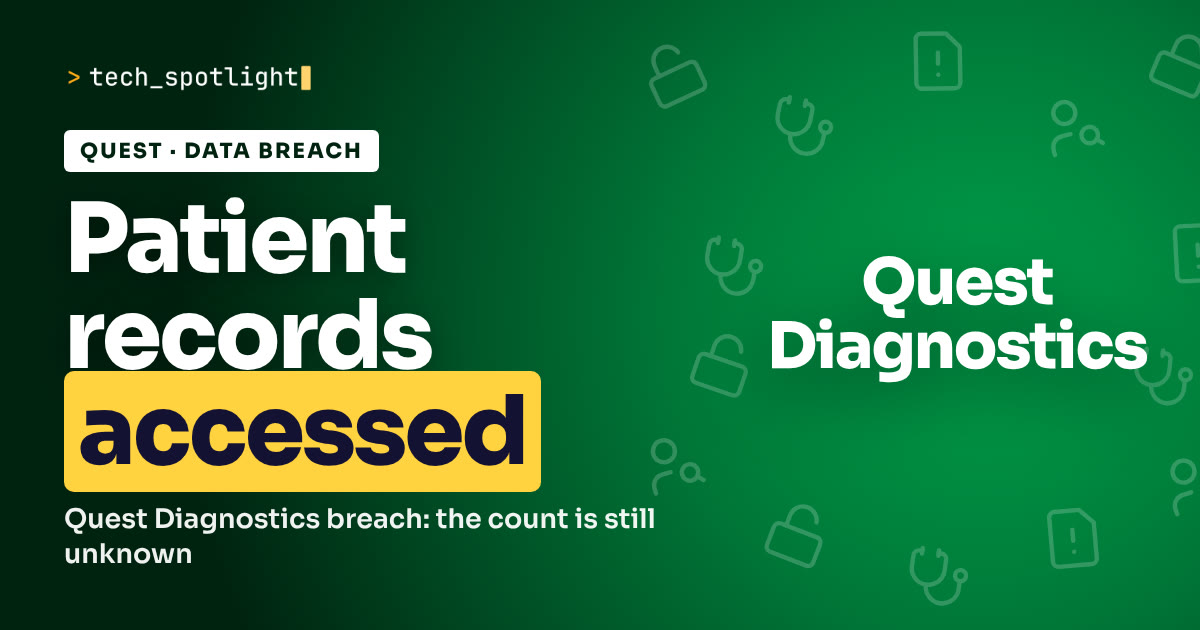
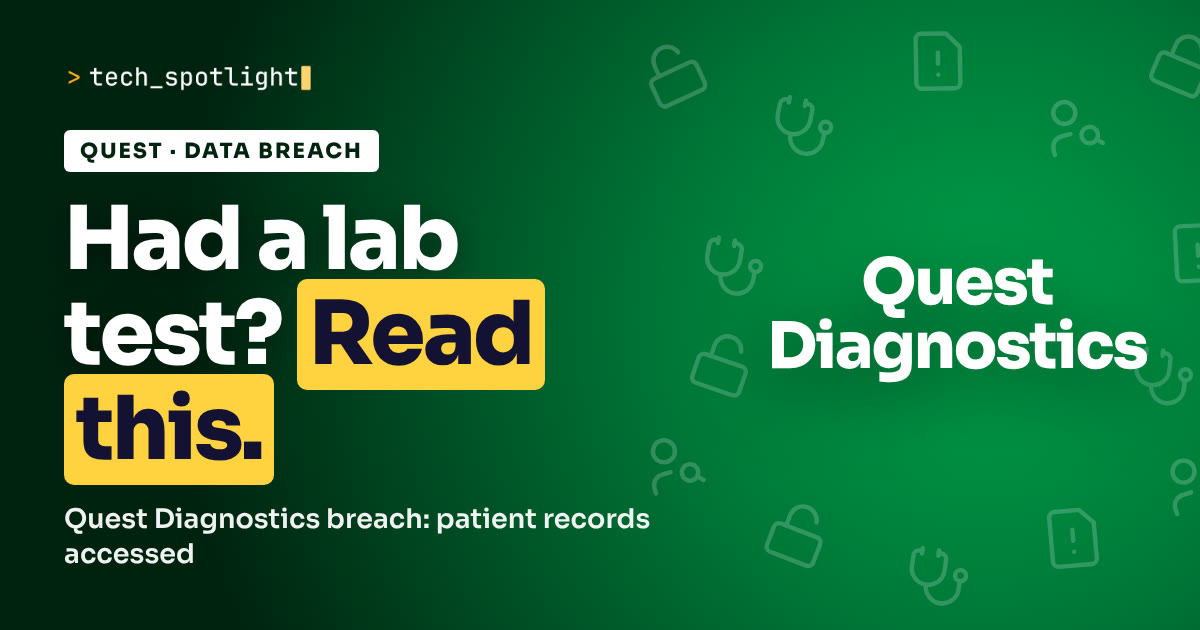
Covers: stronger hook lines on poster covers
Claude-Session: https://claude.ai/code/session_01NsXGU5aghkSMkgTdhcr5Zx

Changed region(s): [[0.0308, 0.3016, 0.4625, 0.7841], [0.3392, 0.7841, 0.555, 0.8444], [0.0617, 0.8444, 0.1542, 0.9048]]

diff --git a/src/content/news/moderna-merck-melanoma-mrna-vaccine-phase-3.md b/src/content/news/moderna-merck-melanoma-mrna-vaccine-phase-3.md
@@ -13,7 +13,7 @@ date: 2026-10-24
 category: science
 draft: false
 image: "/images/posts/moderna-merck-melanoma-mrna-vaccine-phase-3/cover.jpg"
-imageAlt: "TechSpotlight poster in Moderna & Merck colours with the Moderna & Merck logos and the words 'Cancer return risk cut 42%'"
+imageAlt: "TechSpotlight poster in Moderna & Merck colours with the Moderna & Merck logos and the words 'A vaccine against melanoma's return'"
 imageCredit:
   name: "TechSpotlight News"
   source: "Cover card"

diff --git a/src/content/news/quest-diagnostics-data-breach-2026.md b/src/content/news/quest-diagnostics-data-breach-2026.md
@@ -13,7 +13,7 @@ date: 2026-10-24
 category: business
 draft: false
 image: "/images/posts/quest-diagnostics-data-breach-2026/cover.jpg"
-imageAlt: "TechSpotlight poster in Quest Diagnostics colours with the name Quest Diagnostics and the words 'Patient records accessed'"
+imageAlt: "TechSpotlight poster in Quest Diagnostics colours with the name Quest Diagnostics and the words 'Had a lab test? Read this.'"
 imageCredit:
   name: "TechSpotlight News"
   source: "Cover card"

diff --git a/src/content/news/brain-enzyme-age-related-memory-loss.md b/src/content/news/brain-enzyme-age-related-memory-loss.md
@@ -13,7 +13,7 @@ date: 2026-10-17
 category: science
 draft: false
 image: "/images/posts/brain-enzyme-age-related-memory-loss/cover.jpg"
-imageAlt: "TechSpotlight poster in Brain research colours with a brain research symbol and the words 'An enzyme that guards memory?'"
+imageAlt: "TechSpotlight poster in Brain research colours with a brain research symbol and the words 'Can memory stay young?'"
 imageCredit:
   name: "TechSpotlight News"
   source: "Cover card"

diff --git a/src/content/news/ice-cliffs-collapse-sea-level-study.md b/src/content/news/ice-cliffs-collapse-sea-level-study.md
@@ -13,7 +13,7 @@ date: 2026-10-17
 category: science
 draft: false
 image: "/images/posts/ice-cliffs-collapse-sea-level-study/cover.jpg"
-imageAlt: "TechSpotlight poster in Climate science colours with a climate science symbol and the words 'Ice cliffs fall faster'"
+imageAlt: "TechSpotlight poster in Climate science colours with a climate science symbol and the words 'Faster, then suddenly stop'"
 imageCredit:
   name: "TechSpotlight News"
   source: "Cover card"

diff --git a/src/content/news/japan-data-breaches-yamato-nikkei.md b/src/content/news/japan-data-breaches-yamato-nikkei.md
@@ -13,7 +13,7 @@ date: 2026-10-17
 category: business
 draft: false
 image: "/images/posts/japan-data-breaches-yamato-nikkei/cover.jpg"
-imageAlt: "TechSpotlight poster in Yamato & Nikkei colours with the name Yamato & Nikkei and the words 'Japan's breach wave grows'"
+imageAlt: "TechSpotlight poster in Yamato & Nikkei colours with the name Yamato & Nikkei and the words 'Who has your data?'"
 imageCredit:
   name: "TechSpotlight News"
   source: "Cover card"

diff --git a/src/content/news/php2shell-nodejs-security-patches.md b/src/content/news/php2shell-nodejs-security-patches.md
@@ -13,7 +13,7 @@ date: 2026-10-22
 category: apps-software
 draft: false
 image: "/images/posts/php2shell-nodejs-security-patches/cover.jpg"
-imageAlt: "TechSpotlight poster in PHP & Node.js colours with the PHP & Node.js logos and the words 'Two critical PHP flaws'"
+imageAlt: "TechSpotlight poster in PHP & Node.js colours with the PHP & Node.js logos and the words 'Run PHP? Patch today.'"
 imageCredit:
   name: "TechSpotlight News"
   source: "Cover card"

diff --git a/src/content/news/western-digital-q1-fy27-earnings.md b/src/content/news/western-digital-q1-fy27-earnings.md
@@ -13,7 +13,7 @@ date: 2026-10-23
 category: business
 draft: false
 image: "/images/posts/western-digital-q1-fy27-earnings/cover.jpg"
-imageAlt: "TechSpotlight poster in Western Digital colours with the Western Digital logo and the words 'Sales up 55%'"
+imageAlt: "TechSpotlight poster in Western Digital colours with the Western Digital logo and the words 'AI's hunger for storage'"
 imageCredit:
   name: "TechSpotlight News"
   source: "Cover card"

diff --git a/src/content/news/spotify-family-plan-qr-verification.md b/src/content/news/spotify-family-plan-qr-verification.md
@@ -13,7 +13,7 @@ date: 2026-10-24
 category: apps-software
 draft: false
 image: "/images/posts/spotify-family-plan-qr-verification/cover.jpg"
-imageAlt: "TechSpotlight poster in Spotify colours with the Spotify logo and the words 'Family plan? Scan at home.'"
+imageAlt: "TechSpotlight poster in Spotify colours with the Spotify logo and the words 'Sharing Family? 7 days to scan'"
 imageCredit:
   name: "TechSpotlight News"
   source: "Cover card"

diff --git a/src/content/news/google-gmail-photos-ads-privacy-policy.md b/src/content/news/google-gmail-photos-ads-privacy-policy.md
@@ -13,7 +13,7 @@ date: 2026-10-24
 category: apps-software
 draft: false
 image: "/images/posts/google-gmail-photos-ads-privacy-policy/cover.jpg"
-imageAlt: "TechSpotlight poster in Google colours with the Google logo and the words 'Your Gmail can shape ads'"
+imageAlt: "TechSpotlight poster in Google colours with the Google logo and the words 'Your photos could shape your ads'"
 imageCredit:
   name: "TechSpotlight News"
   source: "Cover card"

diff --git a/src/content/news/arc-browser-shutting-down.md b/src/content/news/arc-browser-shutting-down.md
@@ -13,7 +13,7 @@ date: 2026-10-23
 category: apps-software
 draft: false
 image: "/images/posts/arc-browser-shutting-down/cover.jpg"
-imageAlt: "TechSpotlight poster in Arc browser colours with the Arc browser logo and the words 'Arc closes on 22 Dec'"
+imageAlt: "TechSpotlight poster in Arc browser colours with the Arc browser logo and the words 'Arc user? Save your tabs'"
 imageCredit:
   name: "TechSpotlight News"
   source: "Cover card"

diff --git a/src/content/news/microsoft-nisource-indiana-power-deal.md b/src/content/news/microsoft-nisource-indiana-power-deal.md
@@ -13,7 +13,7 @@ date: 2026-10-17
 category: business
 draft: false
 image: "/images/posts/microsoft-nisource-indiana-power-deal/cover.jpg"
-imageAlt: "TechSpotlight poster in Microsoft colours with the Microsoft logo and the words '20 years of power'"
+imageAlt: "TechSpotlight poster in Microsoft colours with the Microsoft logo and the words 'Microsoft will pay the bill'"
 imageCredit:
   name: "TechSpotlight News"
   source: "Cover card"

diff --git a/src/content/news/tamm-global-abu-dhabi-ai-government.md b/src/content/news/tamm-global-abu-dhabi-ai-government.md
@@ -13,7 +13,7 @@ date: 2026-10-17
 category: ai
 draft: false
 image: "/images/posts/tamm-global-abu-dhabi-ai-government/cover.jpg"
-imageAlt: "TechSpotlight poster in TAMM colours with the name TAMM and the words 'Abu Dhabi's AI app goes global'"
+imageAlt: "TechSpotlight poster in TAMM colours with the name TAMM and the words 'Government in one app goes global'"
 imageCredit:
   name: "TechSpotlight News"
   source: "Cover card"
